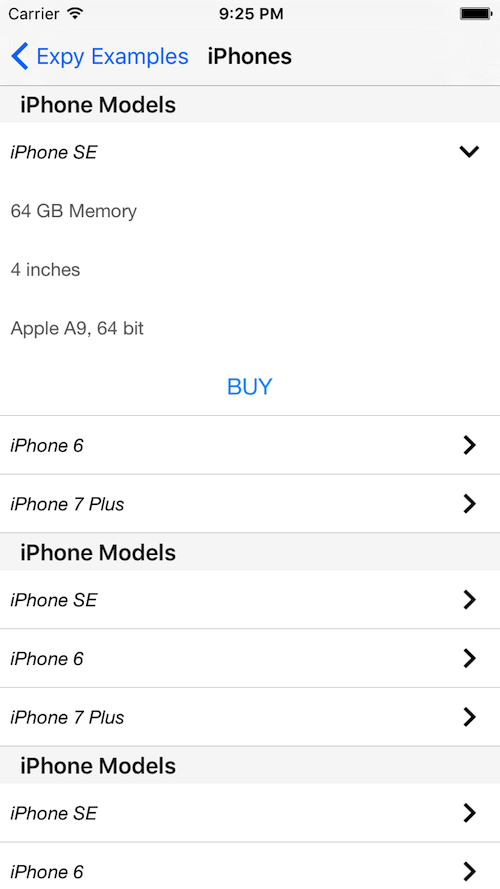
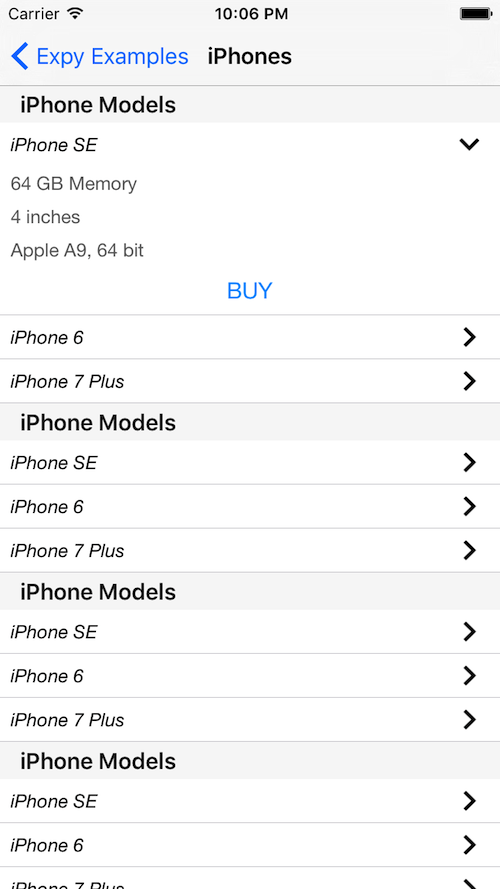
Improving the example project.

diff --git a/Example/ExpyTableView/CustomizationExampleViewController.swift b/Example/ExpyTableView/CustomizationExampleViewController.swift
@@ -31,6 +31,9 @@ class CustomizationExampleViewController: UIViewController {
 				expandableTableView.dataSource = self
 				expandableTableView.delegate = self
 			
+				expandableTableView.rowHeight = UITableViewAutomaticDimension
+				expandableTableView.estimatedRowHeight = 44
+			
 				//Alter the animations as you want
 				expandableTableView.expandingAnimation = .fade
 				expandableTableView.collapsingAnimation = .fade
@@ -97,7 +100,12 @@ extension CustomizationExampleViewController {
 	func tableView(_ tableView: UITableView, didSelectRowAt indexPath: IndexPath) {
 		print("DID SELECT row: \(indexPath.row), section: \(indexPath.section)")
 	}
+	
+	func tableView(_ tableView: UITableView, heightForRowAt indexPath: IndexPath) -> CGFloat {
+		return UITableViewAutomaticDimension
+	}
 }
+
 //MARK: UITableView Data Source Methods 
 extension CustomizationExampleViewController {
 	func numberOfSections(in tableView: UITableView) -> Int {
